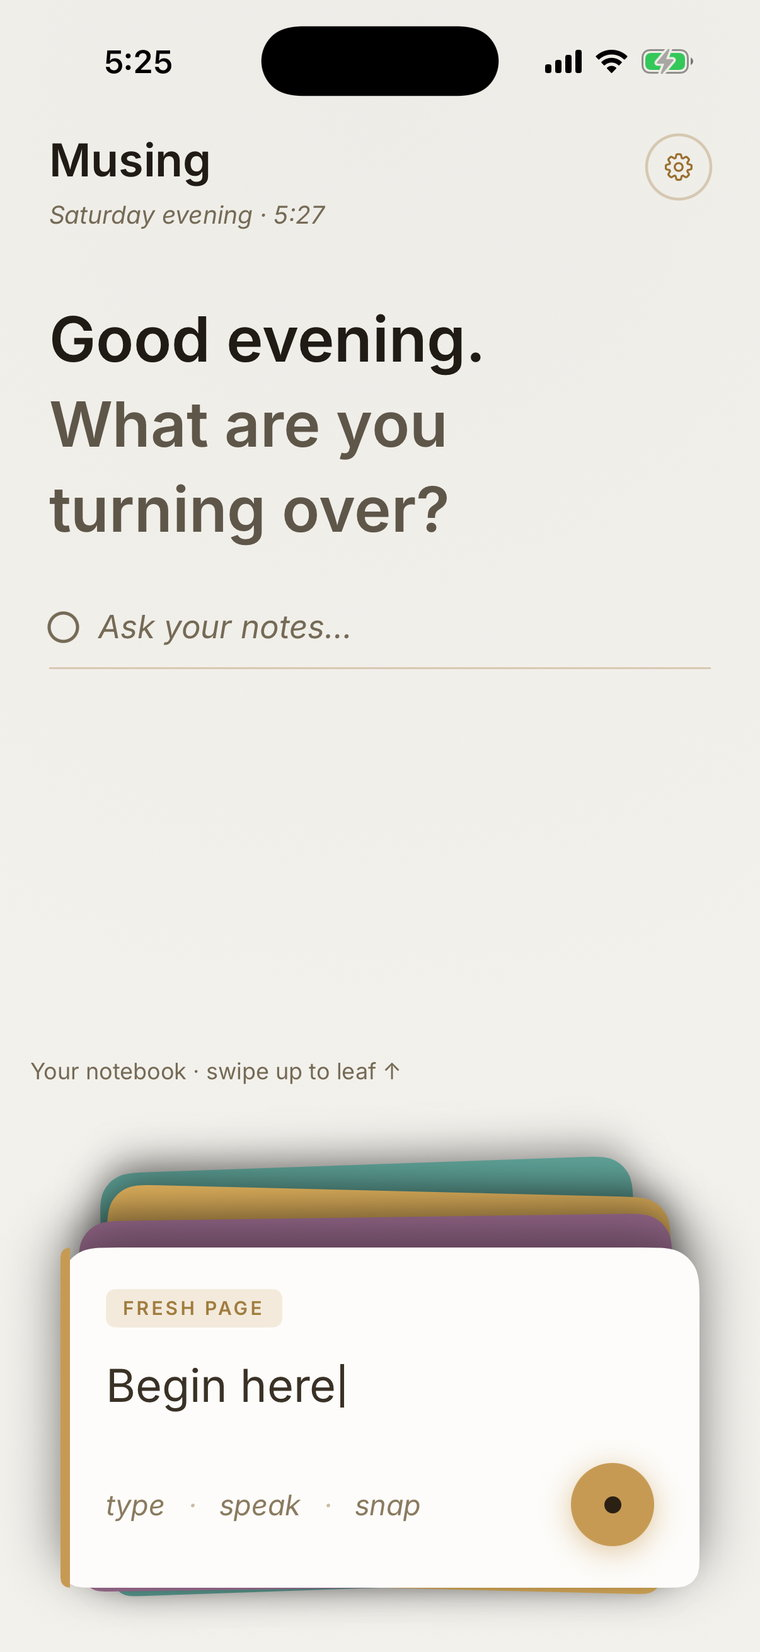
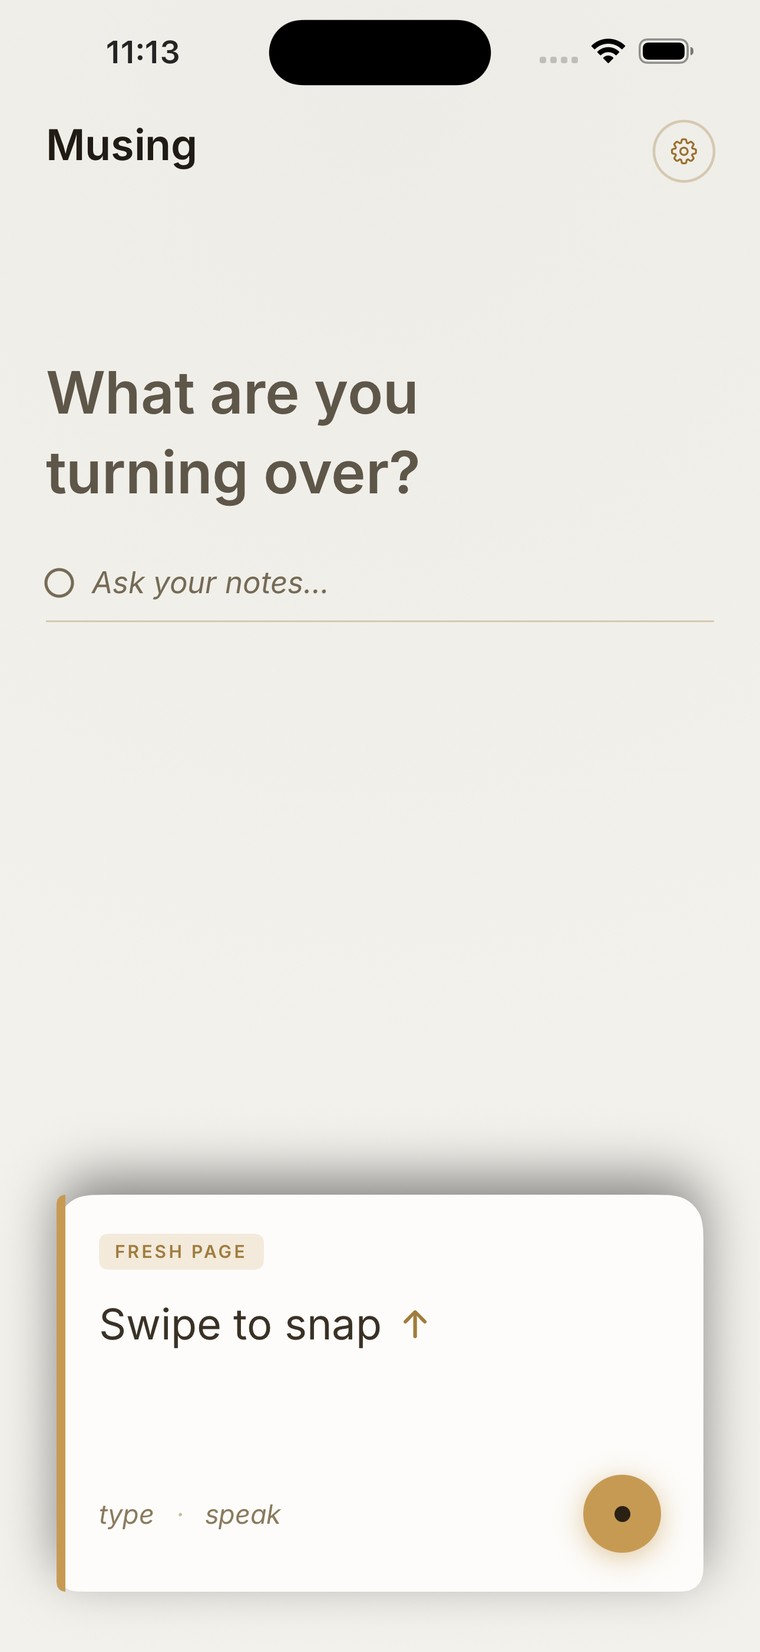
Stage 3.2: structured captures section, refreshed hero shot
Adds a "New in 3.2 — The photo knows what it is" section (checklist +
event capture screenshots, matching the app's real design tokens and
NoteDetailView chrome) after Boards. Hero shot replaced — the old one
showed stale copy ("Begin here" / type·speak·snap) the app dropped this
release in favor of "Swipe to snap ↑" / type·speak. Boards kicker
demoted from "New in 3.1" to a thematic line now that 3.2 is current.

Reviewed by Fable 5 before publish: screenshot chrome fidelity, copy
voice/rhythm, background alternation, and feature claims fact-checked
against AmbientNotes/Features/NoteDetail/NoteDetailView.swift and
StructuredCaptureService.swift.

diff --git a/public/index.html b/public/index.html
@@ -71,7 +71,7 @@
 
   <section class="boards">
     <div class="wrap">
-      <p class="kicker">New in 3.1</p>
+      <p class="kicker">A record, not just a photo</p>
       <h2>Notes that become boards.</h2>
       <p class="section-lead">Pick a few notes and Musing lays them out as a client-ready board — your photos, your words, and the place and day each was captured. Proof it full screen, edit right on the board, then share it as an image or a PDF. Save it, and it lives under the Boards filter — rendering live from your notes.</p>
       <div class="shot-row">
@@ -81,6 +81,22 @@
           <p>A note now holds up to eight photos — a whole showroom stop, one thought. Each photo gets its own quiet AI line: what it is, the material or finish, even the label. All of it searchable, all of it ready to become a board.</p>
         </div>
         <div class="phone"><img src="shot-visit.jpg" width="760" height="1652" alt="A multi-photo note where each photo carries its own AI caption line" loading="lazy" /></div>
+      </div>
+    </div>
+  </section>
+
+  <section class="structured">
+    <div class="wrap">
+      <p class="kicker">New in 3.2</p>
+      <h2>The photo knows what it is.</h2>
+      <p class="section-lead">Snap a grocery list and Musing turns it into a tappable checklist — check items off as you go. Snap an event flyer and get date, time, and venue, one tap from a Reminder or a Calendar event. Snap a receipt and get merchant, total, and line items, all searchable later. No forms, no buttons to press — the photo tells Musing what kind of note it is.</p>
+      <div class="shot-row">
+        <div class="phone"><img src="shot-lists.jpg" width="760" height="1127" alt="A grocery list note turned into a tappable checklist, three items already checked off" loading="lazy" /></div>
+        <div class="shot-caption">
+          <h3>Built to be operated, not just read.</h3>
+          <p>A checklist is the first kind of note you act on, not just revisit — tap an item and it's done, with a running count and a soft progress bar. Events and receipts work the same way: the photo becomes something you can actually use.</p>
+        </div>
+        <div class="phone"><img src="shot-event.jpg" width="760" height="678" alt="An event flyer turned into a date, time, and venue with Remind Me and Add to Calendar buttons" loading="lazy" /></div>
       </div>
     </div>
   </section>

diff --git a/public/styles.css b/public/styles.css
@@ -153,6 +153,8 @@ section h2 { font-size: clamp(34px, 4.4vw, 52px); margin-bottom: 20px; }
 
 .boards { background: var(--paper); }
 
+.structured { background: var(--stone); }
+
 /* ---------- Dark band ---------- */
 .dark-band {
   background: radial-gradient(120% 130% at 25% 10%, var(--espresso-2) 0%, var(--espresso) 65%);